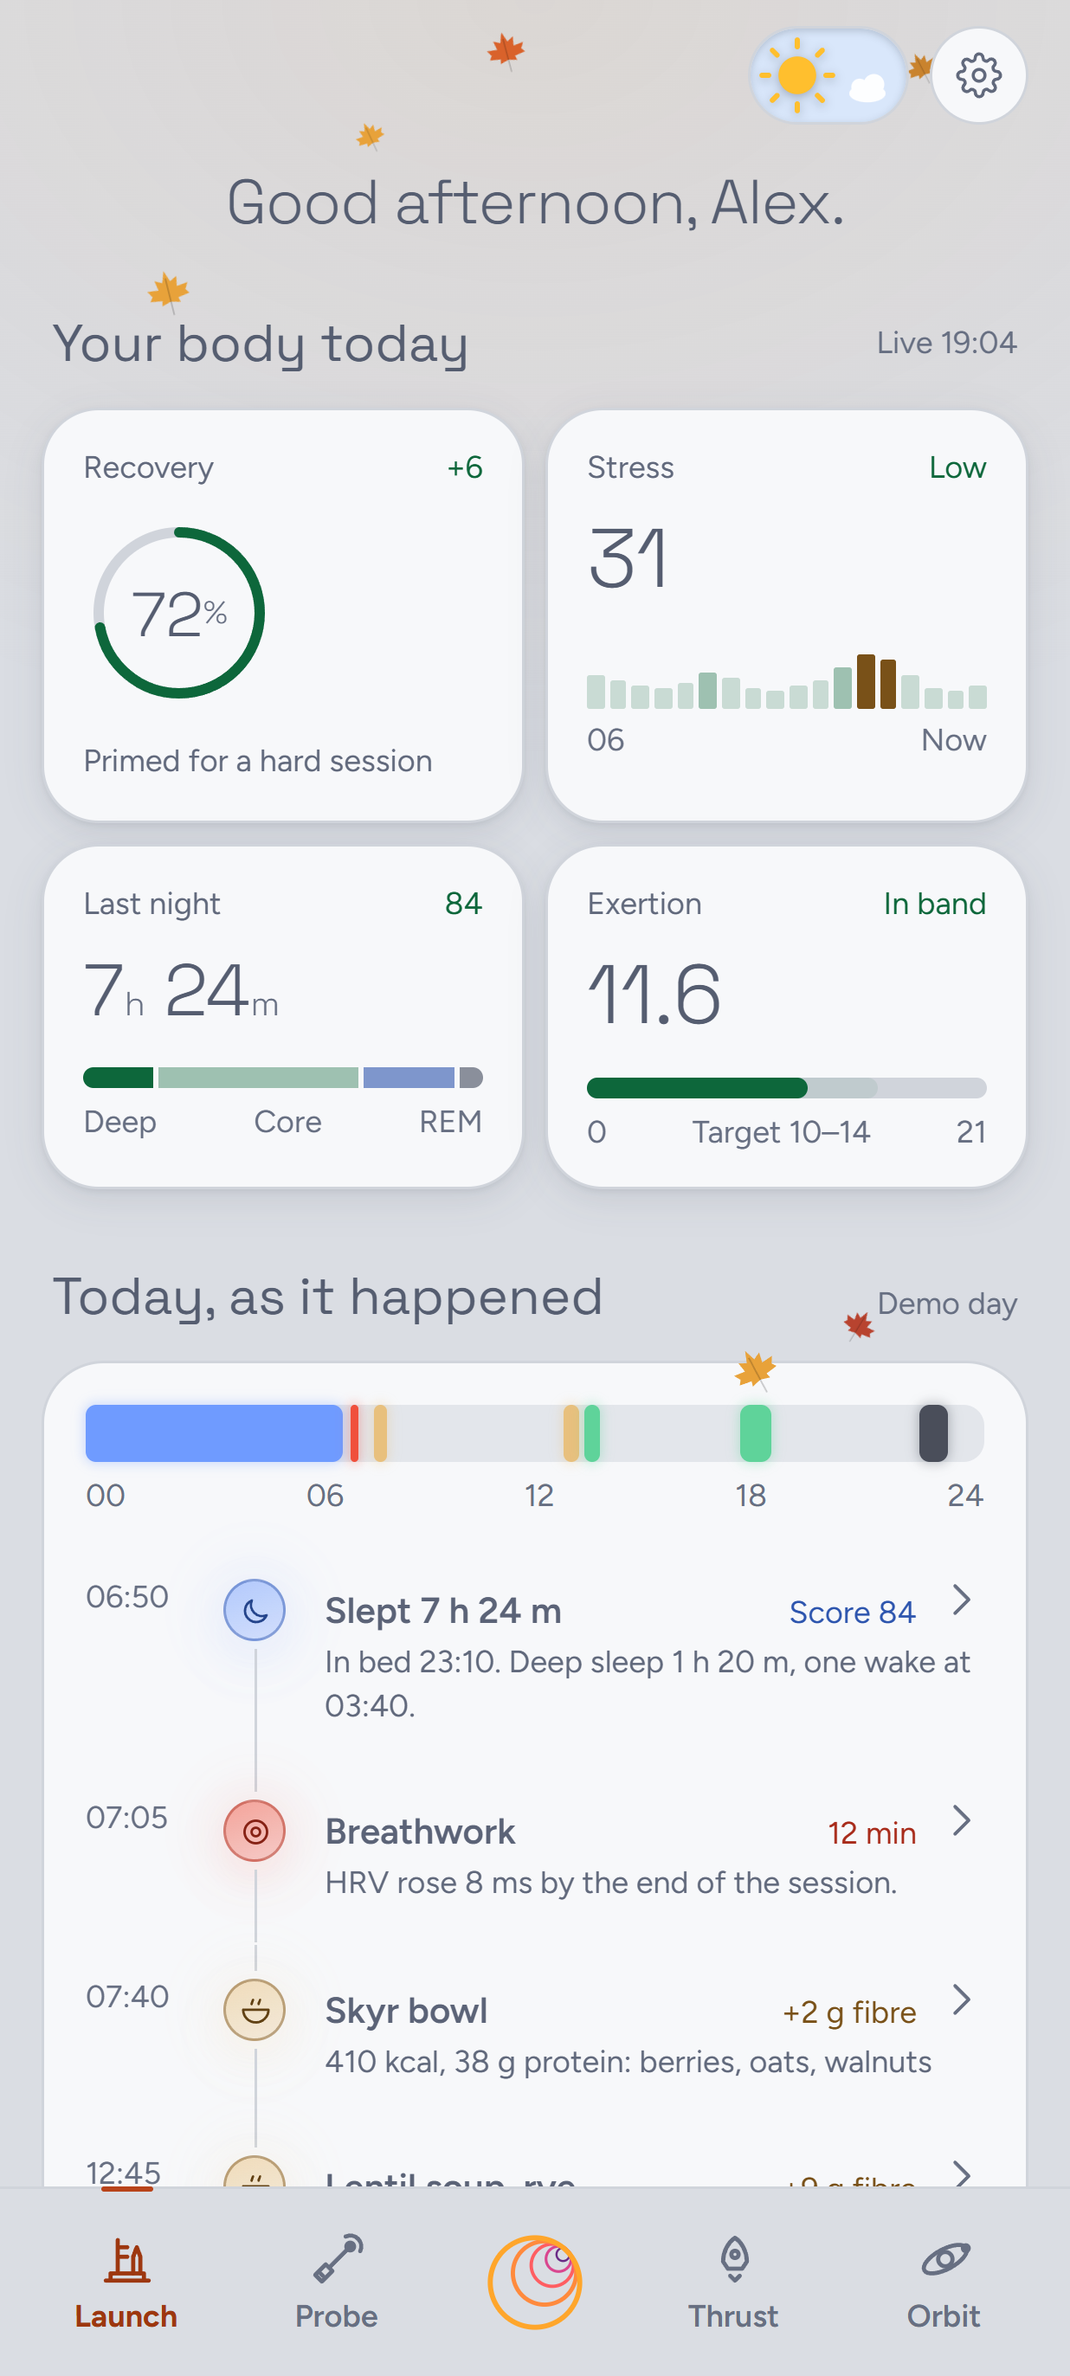
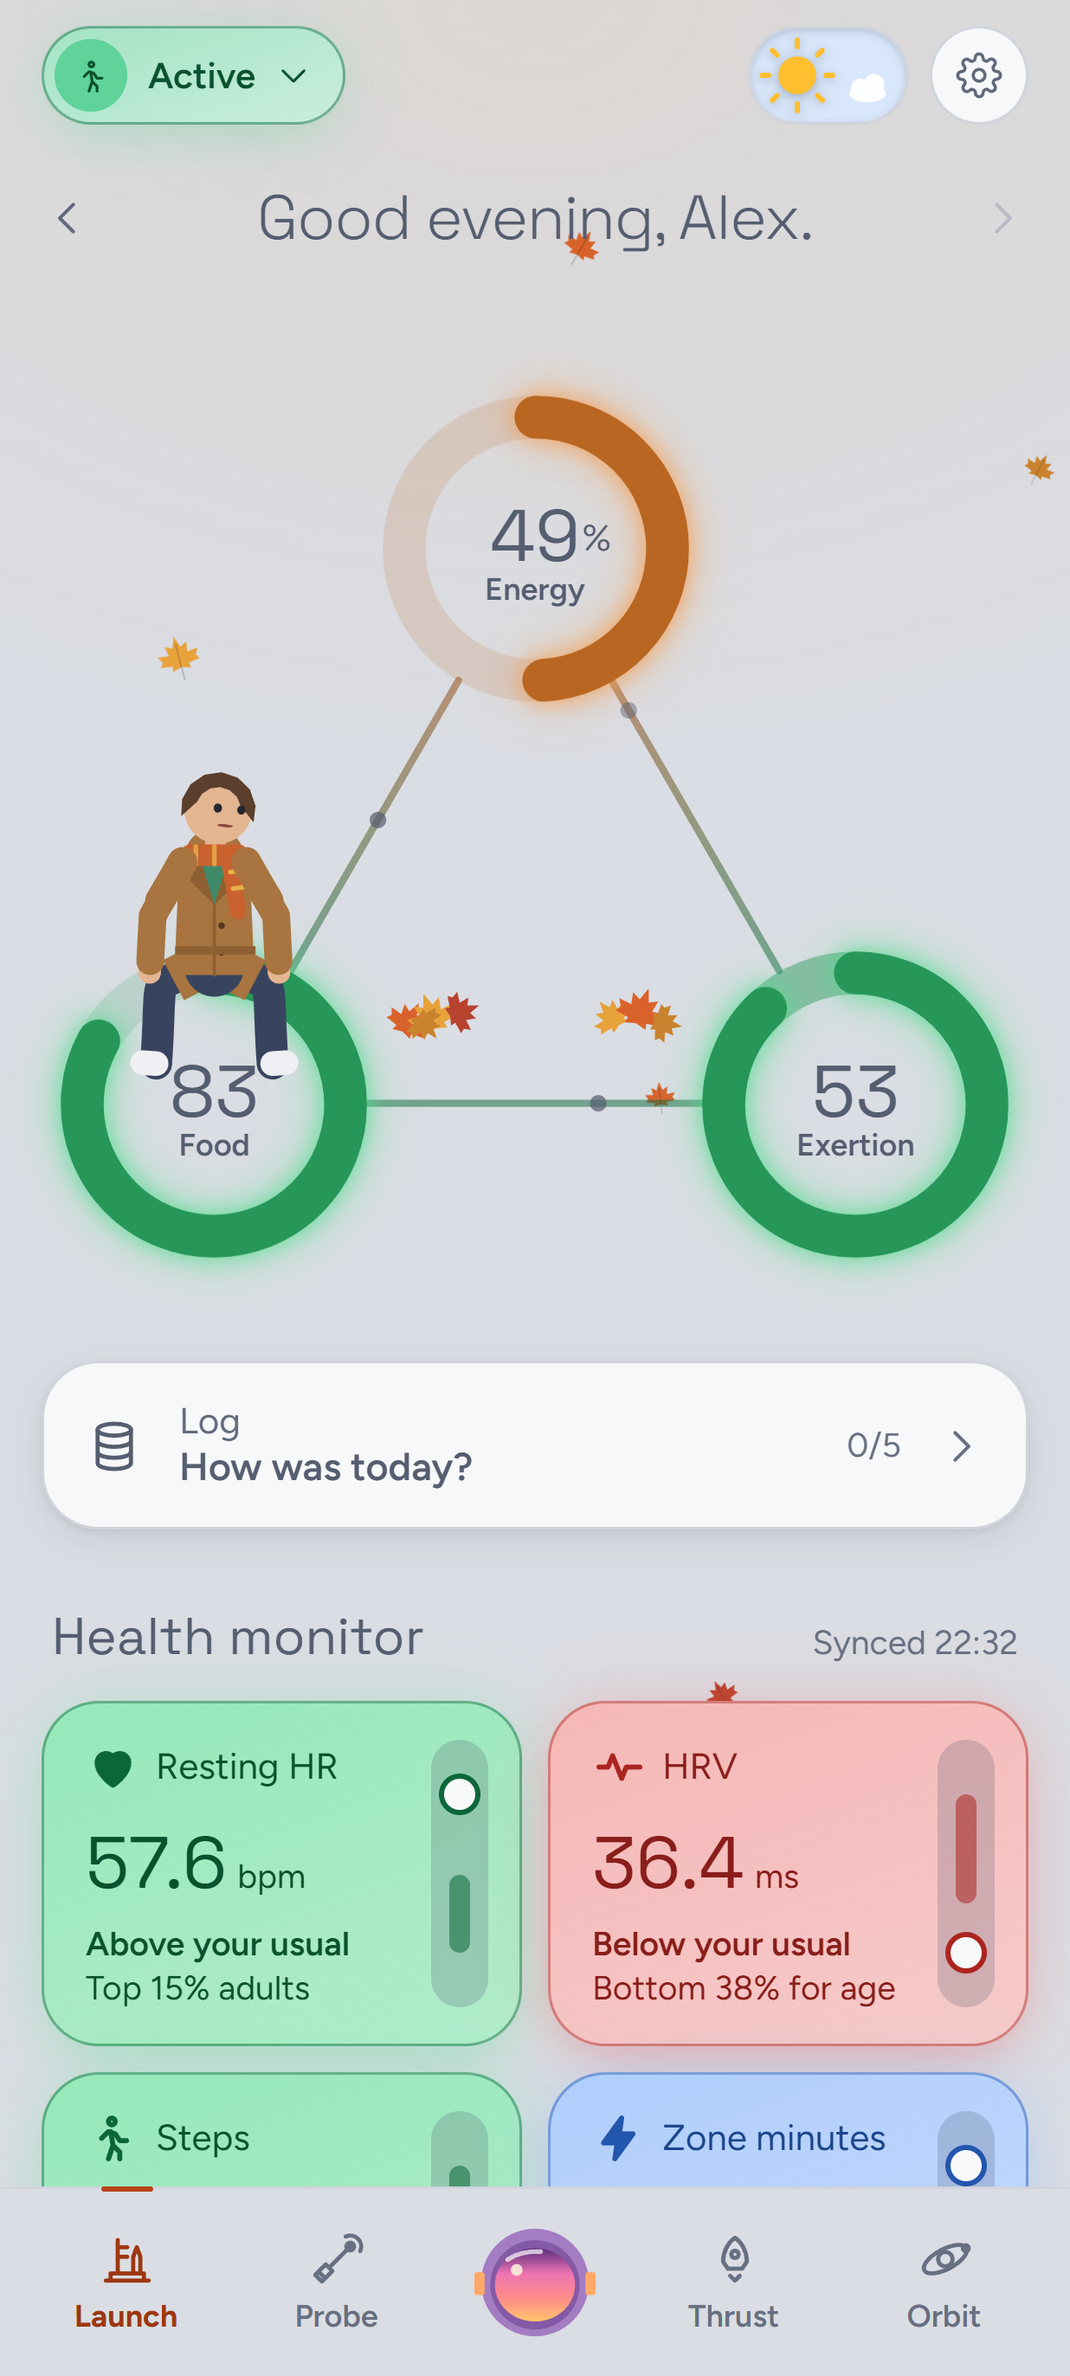
Ambrose: the site renamed, with the helmet mark and pictures of the current app
Screenshots retaken from the main line (543c378) with made-up live data: the
Energy, Food and Exertion rings, the Energy page, Food's diet score and the new
Thrust. New sections for Energy and Food.

diff --git a/index.html b/index.html
@@ -3,17 +3,19 @@
   <head>
     <meta charset="utf-8" />
     <meta name="viewport" content="width=device-width, initial-scale=1" />
-    <title>EON: your watch's data, read on your phone</title>
+    <title>Ambrose: your watch's data, read on your phone</title>
     <meta
       name="description"
-      content="EON turns what your watch writes to Health Connect into recovery, sleep, training and pace of aging. Worked out on your phone, with no account and no EON server."
+      content="Ambrose turns what your watch writes to Health Connect into energy, recovery, food, training and pace of aging. Worked out on your phone, with no account and no Ambrose server."
     />
     <meta name="theme-color" content="#1c1d22" media="(prefers-color-scheme: dark)" />
     <meta name="theme-color" content="#dadde3" media="(prefers-color-scheme: light)" />
+    <link rel="icon" href="mark.svg" type="image/svg+xml" />
+    <link rel="apple-touch-icon" href="apple-touch-icon.png" />
     <link rel="preconnect" href="https://fonts.googleapis.com" />
     <link rel="preconnect" href="https://fonts.gstatic.com" crossorigin />
     <link
-      href="https://fonts.googleapis.com/css2?family=Space+Grotesk:wght@300;400;500&family=Figtree:wght@400;500;600;700&display=swap"
+      href="https://fonts.googleapis.com/css2?family=Space+Grotesk:wght@300;400;500&family=Figtree:wght@400;500;600;700&family=Rubik:wght@500;600&display=swap"
       rel="stylesheet"
     />
     <link rel="stylesheet" href="style.css" />
@@ -21,7 +23,7 @@
   <body>
     <header class="top">
       <div class="wrap">
-        <a class="word" href="./">EON</a>
+        <a class="word" href="./"><img src="mark.svg" alt="" width="34" height="34" />ambrose</a>
         <nav>
           <a class="wide" href="#launch">The app</a>
           <a href="#privacy">Privacy</a>
@@ -33,41 +35,76 @@
     <main class="wrap">
       <section class="hero">
         <div>
-          <h1>Your watch already knows. <em>EON</em> tells you what it means.</h1>
+          <h1>Your watch already knows. <em>Ambrose</em> tells you what it means.</h1>
           <p class="lede">
-            Recovery, sleep, training load and how fast you're aging, from the data your watch or ring writes to
-            Health Connect. Every number is worked out on your phone. There's no account, and no EON server.
+            Energy, recovery, food, training and how fast you're aging, from the data your watch or ring writes to
+            Health Connect. Every number is worked out on your phone. There's no account, and no Ambrose server.
           </p>
           <a class="button" href="#join">Join the test</a>
-          <span class="note">Android, by invitation, while EON is in testing.</span>
+          <span class="note">Android, by invitation, while Ambrose is in testing.</span>
         </div>
         <picture class="phone">
           <source srcset="img/launch-light.png" media="(prefers-color-scheme: light)" />
-          <img src="img/launch-dark.png" alt="EON's Launch screen: recovery 72%, stress 31, last night 7 h 24 m, and the day so far" width="1236" height="2745" />
+          <img src="img/launch-dark.png" alt="Ambrose's Launch screen: energy 49%, food 83 and exertion 54 around your avatar" width="1236" height="2745" />
         </picture>
       </section>
 
       <section class="facts">
         <div class="fact"><b>Any watch on Health Connect</b><span>Fitbit, Pixel Watch, Garmin, Samsung, Oura and more.</span></div>
-        <div class="fact"><b>Worked out on your phone</b><span>Your data stays there. EON never sees it.</span></div>
-        <div class="fact"><b>From open research</b><span>Every score is explained, down to its formula.</span></div>
+        <div class="fact"><b>Worked out on your phone</b><span>Your data stays there. Ambrose never sees it.</span></div>
+        <div class="fact"><b>From published research</b><span>Every score is explained, down to its formula.</span></div>
       </section>
 
       <section class="area launch" id="launch">
         <div class="copy">
           <span class="kicker">Launch</span>
           <h2>Your body today, at a glance.</h2>
-          <p>Four numbers when you wake up, and the day as it happened underneath: how you slept, what you ate, when you trained.</p>
+          <p>Three rings around you, a health monitor that knows your usual, and the day as it happened.</p>
           <ul>
-            <li><b>Recovery</b> from your heart rate variability and resting heart rate</li>
-            <li><b>Stress</b> through the day, hour by hour</li>
-            <li><b>Sleep</b> with its stages and a score</li>
-            <li><b>Exertion</b> against a target that fits your week</li>
+            <li><b>Energy, food and exertion</b> in three rings, with you in the middle</li>
+            <li><b>Resting heart rate, HRV, steps and zone minutes</b> against your own usual and people your age</li>
+            <li><b>The day</b> on a timeline: meals, workouts and sleep</li>
           </ul>
         </div>
         <picture class="phone">
           <source srcset="img/launch-day-light.png" media="(prefers-color-scheme: light)" />
-          <img src="img/launch-day-dark.png" alt="Launch: the day as it happened, with sleep, breathwork and meals on a timeline" width="1236" height="2745" loading="lazy" />
+          <img src="img/launch-day-dark.png" alt="The health monitor and today's meals on a timeline" width="1236" height="2745" loading="lazy" />
+        </picture>
+      </section>
+
+      <section class="area energy flip">
+        <div class="copy">
+          <span class="kicker">Energy</span>
+          <h2>How much you have left today.</h2>
+          <p>
+            Energy starts the day at your recovery and runs down while you're awake, faster in hard training and
+            stressful spells. A nap or a calm moment gives some back. Ambrose says in plain words what moved it, and
+            where you'll be by bedtime.
+          </p>
+          <ul>
+            <li><b>Built on published models</b> of sleep pressure, training load and stress</li>
+            <li><b>Ways to restore some</b>, and how much each would give back</li>
+          </ul>
+        </div>
+        <picture class="phone">
+          <source srcset="img/energy-light.png" media="(prefers-color-scheme: light)" />
+          <img src="img/energy-dark.png" alt="Energy at 49%, with the day's curve and why it stands there" width="1236" height="2745" loading="lazy" />
+        </picture>
+      </section>
+
+      <section class="area food">
+        <div class="copy">
+          <span class="kicker">Food</span>
+          <h2>A diet score that means something.</h2>
+          <p>
+            Log a meal by searching, scanning its barcode or choosing one you eat often. Ambrose scores the day on what
+            matters for a long life: vegetables, fruit, fibre, legumes, nuts and good fats, against red meat, sugar,
+            salt and ultra-processed food.
+          </p>
+        </div>
+        <picture class="phone">
+          <source srcset="img/food-light.png" media="(prefers-color-scheme: light)" />
+          <img src="img/food-dark.png" alt="Food: a diet score of 83, and what it's made of" width="1236" height="2745" loading="lazy" />
         </picture>
       </section>
 
@@ -91,16 +128,16 @@
         <div class="copy">
           <span class="kicker">Thrust</span>
           <h2>Train hard on the right days.</h2>
-          <p>Log a workout as you lift, and see how the load of the last weeks sits against your recovery.</p>
+          <p>Start a workout and log it as you go, and see how your training load sits against the range that suits you.</p>
           <ul>
-            <li><b>Strain</b> for today, next to how recovered you are</li>
-            <li><b>Net load</b> over 28 days: building up or recovering</li>
-            <li><b>Muscle recovery</b> for each muscle group you trained</li>
+            <li><b>Training load</b> over the last week: building, maintaining or easing off</li>
+            <li><b>Activity</b> for every day of the last six months</li>
+            <li><b>Time trained, cardio focus and zone minutes</b> over 30 days</li>
           </ul>
         </div>
         <picture class="phone">
           <source srcset="img/thrust-light.png" media="(prefers-color-scheme: light)" />
-          <img src="img/thrust-dark.png" alt="Thrust: start workout, strain 11.6, net load over 28 days, muscle recovery" width="1236" height="2745" loading="lazy" />
+          <img src="img/thrust-dark.png" alt="Thrust: training load 89 a day, maintaining, and six months of activity" width="1236" height="2745" loading="lazy" />
         </picture>
       </section>
 
@@ -122,11 +159,11 @@
 
       <section class="band" id="privacy">
         <h2>Your data stays on your phone.</h2>
-        <p>EON reads Health Connect and does the rest on the phone. Something leaves it only when you use a feature that needs it.</p>
+        <p>Ambrose reads Health Connect and does the rest on the phone. Something leaves it only when you use a feature that needs it.</p>
         <div class="cards">
           <div class="card">
             <h3>No account</h3>
-            <p>Nothing to sign up for, and no EON server holding your data. Uninstalling deletes EON's copy.</p>
+            <p>Nothing to sign up for, and no Ambrose server holding your data. Uninstalling deletes Ambrose's copy.</p>
           </div>
           <div class="card">
             <h3>AI only if you want it</h3>
@@ -134,7 +171,7 @@
           </div>
           <div class="card">
             <h3>Read-only</h3>
-            <p>EON never writes to Health Connect, and you can take any permission away there at any time.</p>
+            <p>Ambrose never writes to Health Connect, and you can take any permission away there at any time.</p>
           </div>
         </div>
         <p style="margin-top: 20px"><a href="privacy.html">Read the privacy policy</a></p>
@@ -143,8 +180,8 @@
       <section class="join" id="join">
         <h2>Join the test.</h2>
         <p>
-          EON is in testing on Android, with a small group of people who wear a watch or ring every day. Testers get
-          each new version the day it's made, and their feedback shapes what comes next.
+          Ambrose is in testing on Android, with a small group of people who wear a watch or ring every day. Testers
+          get each new version the day it's made, and their feedback shapes what comes next.
         </p>
         <a class="button" href="#join">Ask for an invite</a>
       </section>
@@ -152,11 +189,11 @@
 
     <footer>
       <div class="wrap">
-        <span>EON</span>
+        <span>Ambrose</span>
         <a href="privacy.html">Privacy</a>
         <span class="fine">
-          EON's numbers are wellness estimates, not medical advice or a diagnosis, and EON isn't a medical device.
-          Screenshots show made-up demo data.
+          Ambrose's numbers are wellness estimates, not medical advice or a diagnosis, and Ambrose isn't a medical
+          device. Screenshots show made-up demo data.
         </span>
       </div>
     </footer>

diff --git a/privacy.html b/privacy.html
@@ -3,22 +3,23 @@
   <head>
     <meta charset="utf-8" />
     <meta name="viewport" content="width=device-width, initial-scale=1" />
-    <title>EON privacy policy</title>
-    <meta name="description" content="What EON reads, where it stays and what leaves your phone." />
+    <title>Ambrose privacy policy</title>
+    <meta name="description" content="What Ambrose reads, where it stays and what leaves your phone." />
     <meta name="theme-color" content="#1c1d22" media="(prefers-color-scheme: dark)" />
     <meta name="theme-color" content="#dadde3" media="(prefers-color-scheme: light)" />
     <link rel="preconnect" href="https://fonts.googleapis.com" />
     <link rel="preconnect" href="https://fonts.gstatic.com" crossorigin />
     <link
-      href="https://fonts.googleapis.com/css2?family=Space+Grotesk:wght@300;400;500&family=Figtree:wght@400;500;600;700&display=swap"
+      href="https://fonts.googleapis.com/css2?family=Space+Grotesk:wght@300;400;500&family=Figtree:wght@400;500;600;700&family=Rubik:wght@500;600&display=swap"
       rel="stylesheet"
     />
+    <link rel="icon" href="mark.svg" type="image/svg+xml" />
     <link rel="stylesheet" href="style.css" />
   </head>
   <body>
     <header class="top">
       <div class="wrap">
-        <a class="word" href="./">EON</a>
+        <a class="word" href="./"><img src="mark.svg" alt="" width="34" height="34" />ambrose</a>
         <nav>
           <a class="wide" href="./#launch">The app</a>
           <a href="privacy.html">Privacy</a>
@@ -29,13 +30,13 @@
 
     <main class="wrap doc">
       <h1>Privacy policy</h1>
-      <p class="date">EON for Android. Last updated 15 November 2026.</p>
+      <p class="date">Ambrose for Android. Last updated 15 November 2026.</p>
 
       <section>
-        <h2>What EON reads</h2>
+        <h2>What Ambrose reads</h2>
         <p>
           From Health Connect, read-only: sleep, heart rate, heart rate variability, resting heart rate, VO₂max,
-          steps, distance, workouts and their GPS routes, calories burned, weight and mindfulness sessions. EON uses
+          steps, distance, workouts and their GPS routes, calories burned, weight and mindfulness sessions. Ambrose uses
           them to work out your scores and trends, and never writes back. You can take any of this away in Health
           Connect at any time.
         </p>
@@ -48,9 +49,9 @@
       <section>
         <h2>Where it stays</h2>
         <p>
-          On your phone. There's no EON account and no EON server, so nobody receives your data from EON.
+          On your phone. There's no Ambrose account and no Ambrose server, so nobody receives your data from Ambrose.
           Uninstalling the app deletes its copy. If Android's backup to your Google account is on, it may include
-          EON's data, but never your API keys.
+          Ambrose's data, but never your API keys.
         </p>
       </section>
 
@@ -66,7 +67,7 @@
           <li>
             <b>AI, only if you turn it on:</b> your questions, meal descriptions and photos, the data needed to answer
             them and the key numbers behind the written notes go to the AI service you connect, under your own
-            account. EON asks before it sends anything the first time. With AI off, nothing goes there.
+            account. Ambrose asks before it sends anything the first time. With AI off, nothing goes there.
           </li>
         </ul>
       </section>
@@ -74,7 +75,7 @@
       <section>
         <h2>How Health Connect data is used</h2>
         <p>
-          EON uses data from Health Connect only to show you your own scores, trends and notes in the app. It is never
+          Ambrose uses data from Health Connect only to show you your own scores, trends and notes in the app. It is never
           sold, never used for advertising, and never shared with anyone, except with the AI service you connect
           yourself, and only while AI is on.
         </p>
@@ -84,7 +85,7 @@
         <h2>Deleting your data</h2>
         <p>
           Settings → Your data → <b>Delete everything</b> clears your meals, workouts, check-ins, profile, settings and
-          API keys from the phone, and EON starts over. Uninstalling does the same. Health Connect keeps its own data,
+          API keys from the phone, and Ambrose starts over. Uninstalling does the same. Health Connect keeps its own data,
           which you manage in Health Connect.
         </p>
       </section>
@@ -92,14 +93,14 @@
       <section>
         <h2>Not medical advice</h2>
         <p>
-          EON's numbers are estimates for wellness. They aren't a diagnosis or medical advice, and EON isn't a medical
+          Ambrose's numbers are estimates for wellness. They aren't a diagnosis or medical advice, and Ambrose isn't a medical
           device. See a doctor about symptoms or anything that worries you.
         </p>
       </section>
 
       <section>
-        <h2>Who EON is for</h2>
-        <p>EON is for adults, 18 and over.</p>
+        <h2>Who Ambrose is for</h2>
+        <p>Ambrose is for adults, 18 and over.</p>
       </section>
 
       <section>
@@ -113,7 +114,7 @@
 
     <footer>
       <div class="wrap">
-        <a href="./">EON</a>
+        <a href="./">Ambrose</a>
         <a href="privacy.html">Privacy</a>
       </div>
     </footer>

diff --git a/style.css b/style.css
@@ -1,4 +1,4 @@
-/* EON's own design, copied from the app's src/theme.ts: the same grounds, greys, area colours and
+/* Ambrose's own design, copied from the app's src/theme.ts: the same grounds, greys, area colours and
    type. Dark is the default, as in the app; daylight follows the visitor's system setting. */
 *,
 *::before,
@@ -113,11 +113,15 @@ p {
   gap: 24px;
   height: 60px;
 }
+/* the app's wordmark: the helmet and the name in lower case, in Rubik */
 .word {
-  font-family: var(--display);
+  display: flex;
+  align-items: center;
+  gap: 9px;
+  font-family: Rubik, system-ui, sans-serif;
   font-size: 22px;
   font-weight: 500;
-  letter-spacing: 0.14em;
+  letter-spacing: -0.01em;
   color: var(--ink);
   text-decoration: none;
 }
@@ -266,7 +270,13 @@ p {
   font-weight: 600;
 }
 .launch {
+  --hue: var(--flare);
+}
+.energy {
   --hue: var(--health);
+}
+.food {
+  --hue: var(--food);
 }
 .probe {
   --hue: var(--calm);

diff --git a/README.md b/README.md
@@ -1,7 +1,7 @@
-# EON site
+# Ambrose site
 
-The public page about EON, and its privacy policy, as plain HTML and CSS. The design follows the
-app's own tokens (`src/theme.ts` in the EON repo): dark by default, daylight from the system setting.
+The public page about Ambrose, and its privacy policy, as plain HTML and CSS. The design follows the
+app's own tokens (`src/theme.ts` in the app repo): dark by default, daylight from the system setting.
 
 - `index.html`: the product page
 - `privacy.html`: the privacy policy (keep it in step with the app's Privacy screen)
@@ -9,9 +9,9 @@ app's own tokens (`src/theme.ts` in the EON repo): dark by default, daylight fro
 
 ## Screenshots
 
-With the app's dev server running (EON repo, port 5281):
+With the app's dev server running (the app repo, port 5299, `--mode user`):
 
-    node tools/shoot.mjs http://localhost:5281
+    node tools/shoot.mjs http://localhost:5299
 
 Every `/api` call is answered with "no source connected", so the app shows demo data and nothing
 real reaches a picture. The same pictures go into the Play listing.
